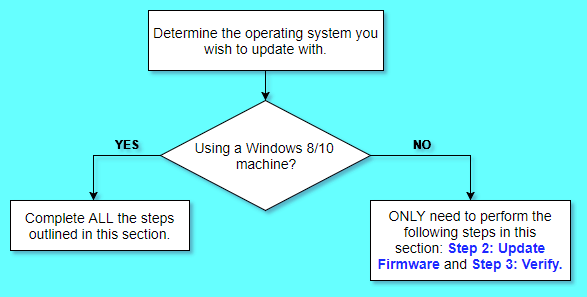
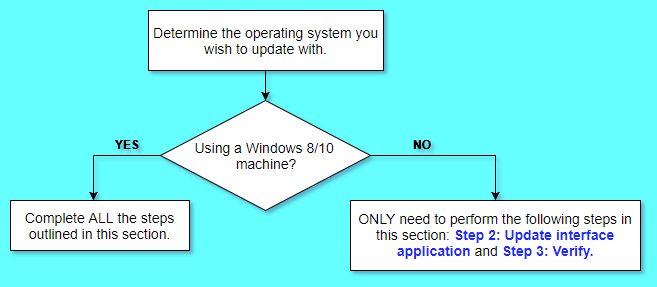
Editted document more based off of Sam's suggestions.

Changed region(s): [[0.0, 0.0279, 0.9813, 0.9756]]

diff --git a/win10-interface-update.md b/win10-interface-update.md
@@ -1,11 +1,7 @@
 # Mbed Enabled boards and Windows 10
-There have been questions asked in the forums about Windows 10 bricking mbed Enabled development boards when updating the interface firmware. We decided to look further into this to understand, reproduce, and find a solution to the problem. The symptom has been described as "bricking" or not mounting as a mass storage drive when connected to the computer over USB. During the investigation, we found that the problem can manifest itself in two different ways, with both cases making the boards appear bricked. In one case, the interface application receives data in an unexpected order and writes it to the device, causing the application to crash on reboot. In the second case, the out of order sequence erases the bootloader, resulting in a bricked device.
+There have been questions asked in the forums about Windows 10 bricking mbed Enabled development boards when updating the interface firmware. We decided to look further into this to understand, reproduce, and find a solution to the problem. The symptom has been described as "bricking" or not mounting as a mass storage drive when connected to the computer over USB. During the investigation, we found that the problem can manifest itself in two different ways, with both cases making the boards appear bricked. In one case, the interface application receives data in an unexpected order causing the application to crash on reboot. In the second case, the out of order sequence erases the bootloader, resulting in a bricked device. While this could happen on any operating system, it has only manifested on Windows 8 and 10 machines when storage services are running. The user facing result of this is that updating DAPLink firmware on a Windows 8 or 10 machine can result in a bricked bootloader or corrupted application interface, both of which will prevent the user's application from running.
 
-While this could happen on any operating system, it has only manifested on Windows 8 and 10 machines when storage services are running. The user facing result of this is that updating DAPLink firmware on a Windows 8 or 10 machine can result in a bricked bootloader or corrupted application interface, both of which will prevent the user's application from running. We have tracked this down to the following list of NXP/Freescale development boards that are shipped with bootloader version "XXXX" (TODO: UDATE THIS BEFORE FINISHING). If you believe your device is bricked, or worried that it may become bricked, this guide will help you in recovering and updating your board properly.
-
-<<insert list of boards and versions here>>
-
-The procedures outlined in this document will NOT leave your board in a unrecoverable state. Begin by following the flowchart below to determine what needs to be done to recover and/or safely update the DAPLink firmware on your board.
+We have determined that NXP/Freescale development boards containing bootloader version 1000 are susceptible for bricking. NXP/Freescale development boards containing interface version below 0240 are susceptible to having their interfaces corrupted. We are uncertain of all the boards and their revisions that came packaged with these versions, but either way, if you believe your device is bricked or corrupted, or worried that it may become bricked or corrupted, this guide will help you in recovering and updating your board properly. After performing the update, your board should no longer be susceptible to bricking/corruption from the reasons explained above. Also, the procedures outlined in this document will NOT leave your board in a unrecoverable state. Begin by following the flowchart below to determine what needs to be done to recover and/or safely update the DAPLink firmware on your board.
 
 ![](images/flowchart.png "Flowchart used to determine status of board.")
 
@@ -32,8 +28,8 @@ Storage Service Properties is now open. Click the button named _Stop_.
 
 ![](images/stop.png "Storage Service settings with the Stop button highlighted.")
 
-### Step 2: Update debug interface application
-While holding the board's reset button, connect it to your computer via the board's OpenSDA UDB port. A device will mount with the name _BOOTLOADER_, _MAINTENANCE_, or something similar, depending the board you are updating. Open up this device's directory, and then drag and drop the latest [DAPLink debug application](TODO: add download link for file). The board will begin the updating process.
+### Step 2: Update interface application
+While holding the board's reset button, connect it to your computer via the board's OpenSDA UDB port. A device will mount with the name _BOOTLOADER_, _MAINTENANCE_, or something similar, depending the board you are updating. Open up this device's directory, and then drag and drop the latest [DAPLink interface application](TODO: add download link for file). The board will begin the updating process.
 
 ### Step 3: Verify
 Allow the update a few seconds to complete, and then unplug and replug the board into your computer normally (without holding down the reset button). The device mounts normally, and the update is complete.
@@ -42,38 +38,44 @@ Allow the update a few seconds to complete, and then unplug and replug the board
 Turn storage services back on by following the same steps listed in ```Step 1: Disable storage services```, but this time click the button name _Start_ instead of _Stop_.
 
 ## Reprogramming the bootloader
-If your bootloader has been partially erased we can use another development board to reprogram an updated bootloader.
+If your bootloader has been partially erased we can use a debugger to reprogram an updated bootloader.
 
 ### Required items
+* Debugger (Step 1 below will discuss various options available).
 * [pyOCD](https://github.com/mbedmicro/pyOCD).
-* <<any freescale  development board….. >>
 * [10 pin debug cable](https://www.adafruit.com/product/1675).
-* [DAPLink bootloader](TODO: NEED TO UPDATE ONCE NEW DAPLINK IS RELEASED).
+* [DAPLink bootloader](TODO: add download link for file).
+* [DAPLink interface application](TODO: add download link for file)
 
-### Step 1: Install pyOCD
-pyOCD is an Open Source Python based library for programming and debugging ARM Cortex-M microcontrollers using the CMSIS-DAP that is linked above in the `Required items` section. With Python 2.7 installed, you can then install pyOCD using the following command (install as superuser if using a Linux machine):
+### Step 1: Acquire a debugger
+There are a few different options here when it comes to using the debugger to reprogram your bootloader. One option is to use a [CMSIS-DAP](https://developer.mbed.org/platforms/SWDAP-LPC11U35/) debugging probe. Alternatively, it is possible to use another FRDM board to program your bricked board. Depending on the board, a SWD header needs to be soldered on the board and jumpers set or traces cut. Here are some tutorials on how to modify the [FRDM-K64F](https://mcuoneclipse.com/2015/09/08/using-frdm-k64f-board-to-debug-another-kinetis-board/), [FRDM-KL25Z](https://mcuoneclipse.com/2013/04/21/using-the-freedom-board-as-jtag-programmer/), and [FRDM-KL43Z](https://mcuoneclipse.com/2015/08/19/using-the-freescale-freedom-frdm-kl43z-to-debug-other-boards/) to do just that.
+
+### Step 2: Install pyOCD
+pyOCD is an Open Source Python based library for programming and debugging ARM Cortex-M microcontrollers using a debugger. With Python 2.7 installed, you can then install pyOCD using the following command (install as superuser if using a Linux machine):
 `pip install pyOCD`
 
-### Step 2: Connect debugger to board
-Locate the 10-pin header associated with your board's k20dx interface MCU. Usually, the header is near the OpenSDA USB port on the device. Connect your 10-pin debug cable to this header, so pin 1 of the header connects to the red wire on your debug cable, as seen in the image below. The pin numbering is printed on the silkscreen of your board for your reference. After you have connected the debugger to your board, ensure that both the debugger and the bricked board are plugged into your computer via USB cable.
+### Step 3: Connect debugger to bricked board
+Locate the 10-pin header associated with your bricked board's k20dx interface MCU. Usually, the header is near the OpenSDA USB port on the device. Connect your 10-pin debug cable to this header, so pin 1 of the header connects to the red wire on your debug cable. The pin numbering is printed on the silkscreen of your board for your reference.
 
 ![](images/header.png "K20dx flash chip and associated 10-pin header. Pin 1 on the header had been circled.")
 
-<<image should be a freescale board connected to a freescale board>>
+After this, connect the debugger to your board. Ensure that both the debugger and the bricked board are plugged into your computer via USB cable. Below is an example of using a FRDM-K64F as a debugger to reprogram a bricked FRDM-K22F.
 
-### Step 3: Flashing the new bootloader
-Now you are ready to flash the board with the [updated DAPLink bootloader](Link bootloader file here too). To run pyOCD's flashtool, use the command below (run with superuser privileges if using a Linux machine). Note, replace `<PATH TO DAPLINK BINARY>` with file location of the DAPLink binary on your system.
+![](images/connected.png "Using a FRDM-K64F as a debugger to reprogram a bricked FRDM-K22F.")
+
+### Step 4: Flashing the new bootloader
+Now you are ready to flash the board with the updated [DAPLink bootloader](TODO: Link bootloader file here). To run pyOCD's flashtool, use the command below (run with superuser privileges if using a Linux machine). Note, replace `<PATH TO DAPLINK BINARY>` with file location of the DAPLink binary on your system.
 
 `pyocd-flashtool <PATH TO DAPLINK BINARY> -t k20d50m`
 
-If you have multiple devices connected to your computer, the console will prompt you to specify which device pyOCD should use as the debugger. The output looks similar to the following:
+If you have multiple devices connected to your computer, the console will prompt you to specify which device pyOCD should use as the debugger. The output will look similar to the following:
 ```
 id => usbinfo | boardname
 0 => NXP LPC800-MAX [k20d50m]
 1 => FRDM-K64F [k20d50m]
 input id num to choice your board want to connect
 ```
-In this list, `id=0` represents the debugger. Therefore, you would type `0` and then hit `Enter`.
+From this list, choose the id number which represents your debugger and then hit `Enter`.
 
 The reprogramming begins, and the terminal reports something like the following:
 
@@ -98,8 +100,8 @@ INFO:root:Programmed 131072 bytes (128 pages) at 25.32 kB/s
 
 ```
 
-### Step 2: Update debug interface application
-While holding the board's reset button, connect it to your computer via the board's OpenSDA UDB port. A device will mount as _MAINTENANCE_. Open up this device's directory, and then drag and drop the [latest DAPLink debug application](Download link for file). The board will begin the updating process.
+### Step 5: Update interface application
+The bootloader should now be updated. Next you will update your board's interface. While holding the board's reset button, connect it to your computer via the board's OpenSDA UDB port. A device will mount as _MAINTENANCE_. Open up this device's directory, and then drag and drop the latest [DAPLink interface application](TODO: add download link for file). The board will begin the updating process and should complete after a few seconds.
 
-### Step 5: Verify
+### Step 6: Verify
 Now, unplug and replug the board into your computer normally (without holding down the reset button). The device mounts normally, and the update is complete.
